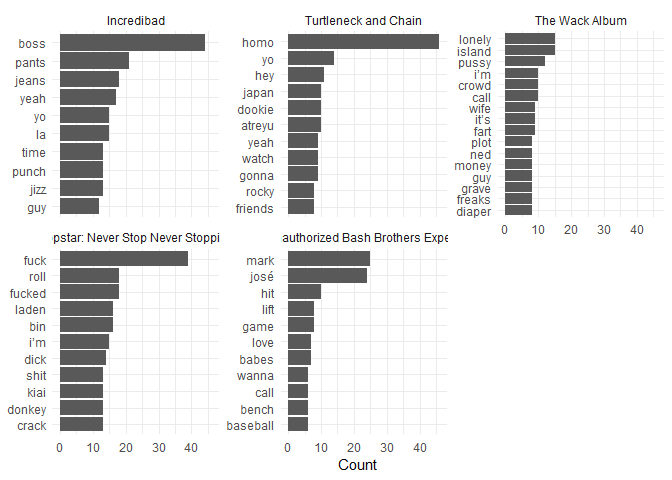
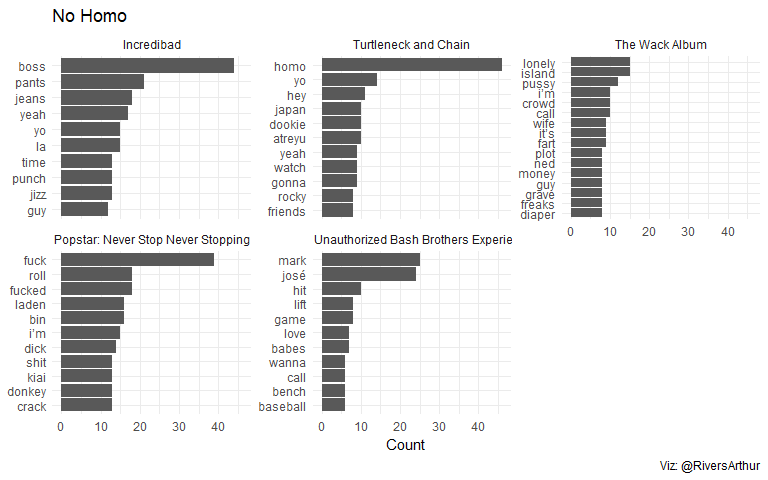
updates tli

diff --git a/The Lonely Island/The_Lonely_Island.md b/The Lonely Island/The_Lonely_Island.md
@@ -51,7 +51,8 @@ tli_lyrics_words %>%
   mutate(word = reorder_within(word, n, album_name)) %>% 
   ggplot(aes(x = word, y = n))+
   geom_col()+
-  labs(x = NULL, y = "Count")+
+  labs(x = NULL, y = "Count", caption = "Viz: @RiversArthur",
+       title = "No Homo")+
   scale_x_reordered()+
   coord_flip()+
   facet_wrap(~album_name, scales = "free_y")+
@@ -61,4 +62,50 @@ tli_lyrics_words %>%
 ![](The_Lonely_Island_files/figure-gfm/part1-1.png)<!-- -->
 
 As I thought\! lots of *boss*, *jizz* and *pants* in the first one.
-Well, a lot of f\*\*\* words in the second.
+Well, a lot of f\*\*\* words in the popstar, and probabily mark and josé
+are the so called bash brothers from the latest album.  
+4
+
+``` r
+tli_lyrics_words_per_album <- tli_lyrics_words %>% 
+  count(album_name, word, sort = TRUE) %>% 
+  ungroup()
+
+total_words <- tli_lyrics_words_per_album %>% 
+  group_by(album_name) %>% 
+  summarise(total = sum(n))
+
+tli_lyrics_words_per_album <- left_join(tli_lyrics_words_per_album, total_words)
+```
+
+    ## Joining, by = "album_name"
+
+``` r
+tli_lyrics_words_per_album <- tli_lyrics_words_per_album %>%
+  bind_tf_idf(word, album_name, n) %>% 
+  filter(album_name != "NA")
+
+tli_lyrics_words_per_album %>% 
+  arrange(desc(tf_idf)) %>%
+  mutate(word = factor(word, levels = rev(unique(word)))) %>%
+  group_by(album_name) %>%
+  top_n(10) %>% 
+  ungroup %>% 
+  ggplot(aes(reorder_within(word, tf_idf, album_name), tf_idf)) +
+  geom_col(show.legend = FALSE, aes(fill = album_name))+
+  facet_wrap(~album_name, scales = "free_y") + 
+  coord_flip()+
+  scale_x_reordered()+ scale_y_continuous(labels = c("Less important words\n in each album",
+                                                     "Important words\n in each album"),
+                                          breaks = c(0.001,.023))+
+  theme_minimal()+theme(legend.position = "none")+
+  labs(caption = "Viz: @RiversArthur",
+       x = NULL, y = NULL, title = "Highest tf-idf words in each of TLI's album")+
+  theme(strip.text = element_text(size = 8),
+        panel.grid.major = element_blank(), panel.grid = element_blank(),
+        axis.text.y = element_text(size = 10))
+```
+
+    ## Selecting by tf_idf
+
+![](The_Lonely_Island_files/figure-gfm/TF-IDF-1.png)<!-- -->
